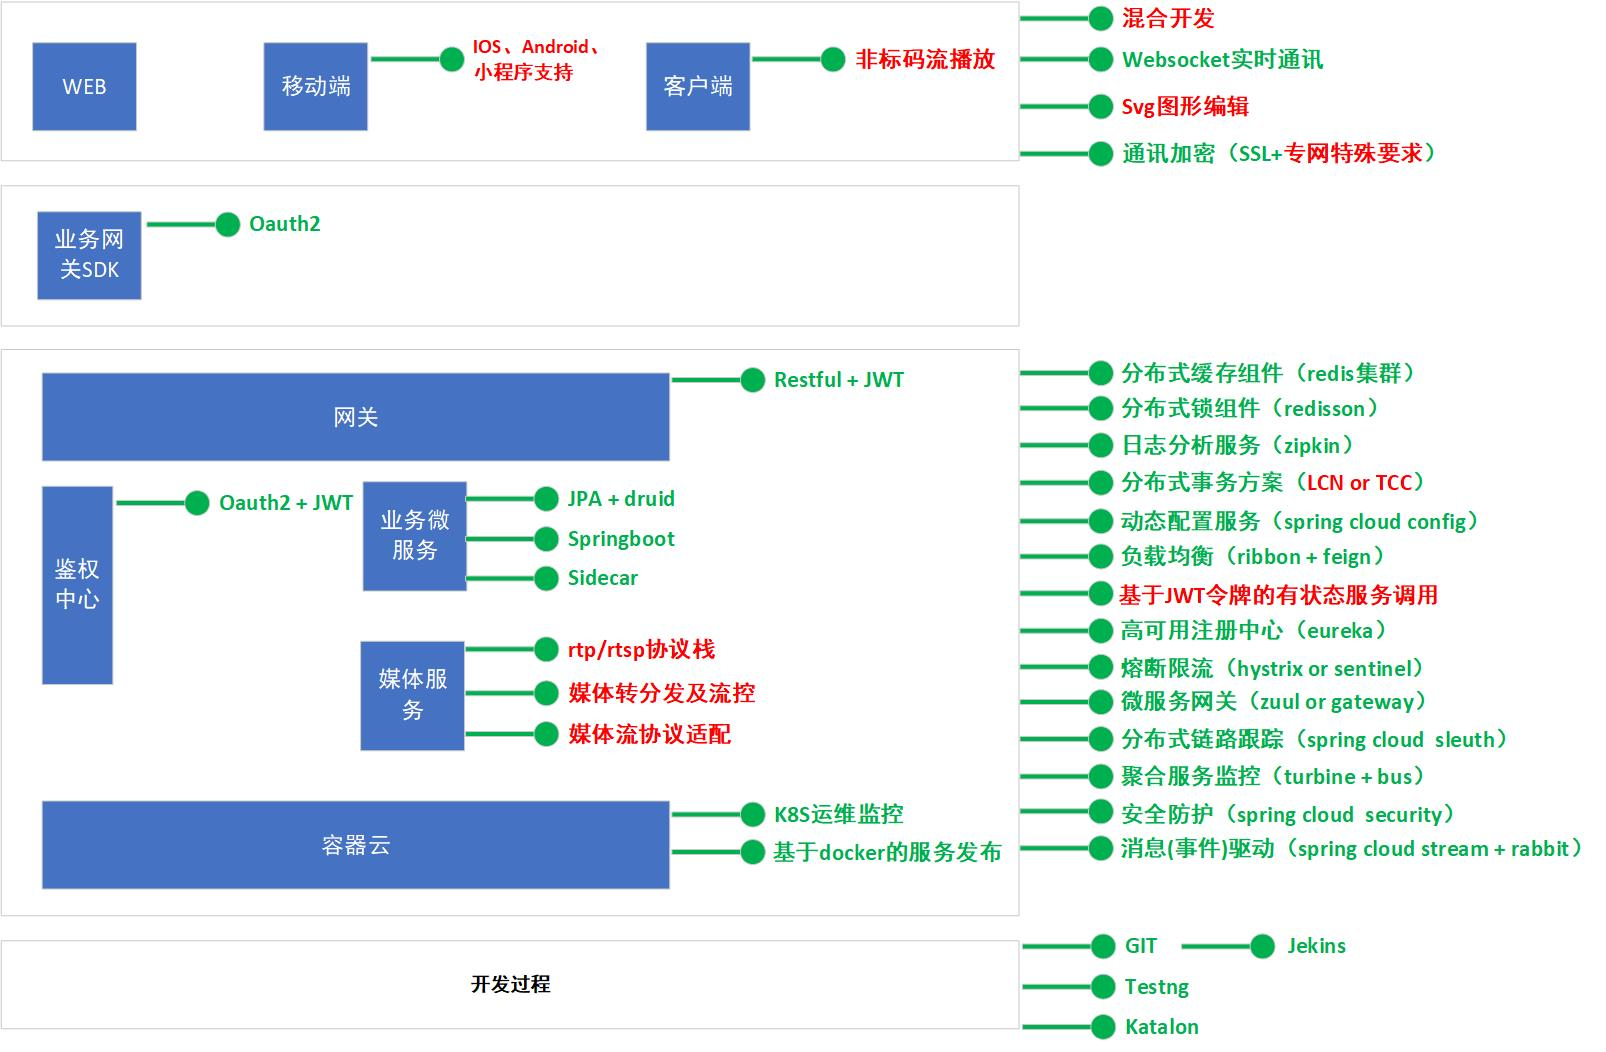
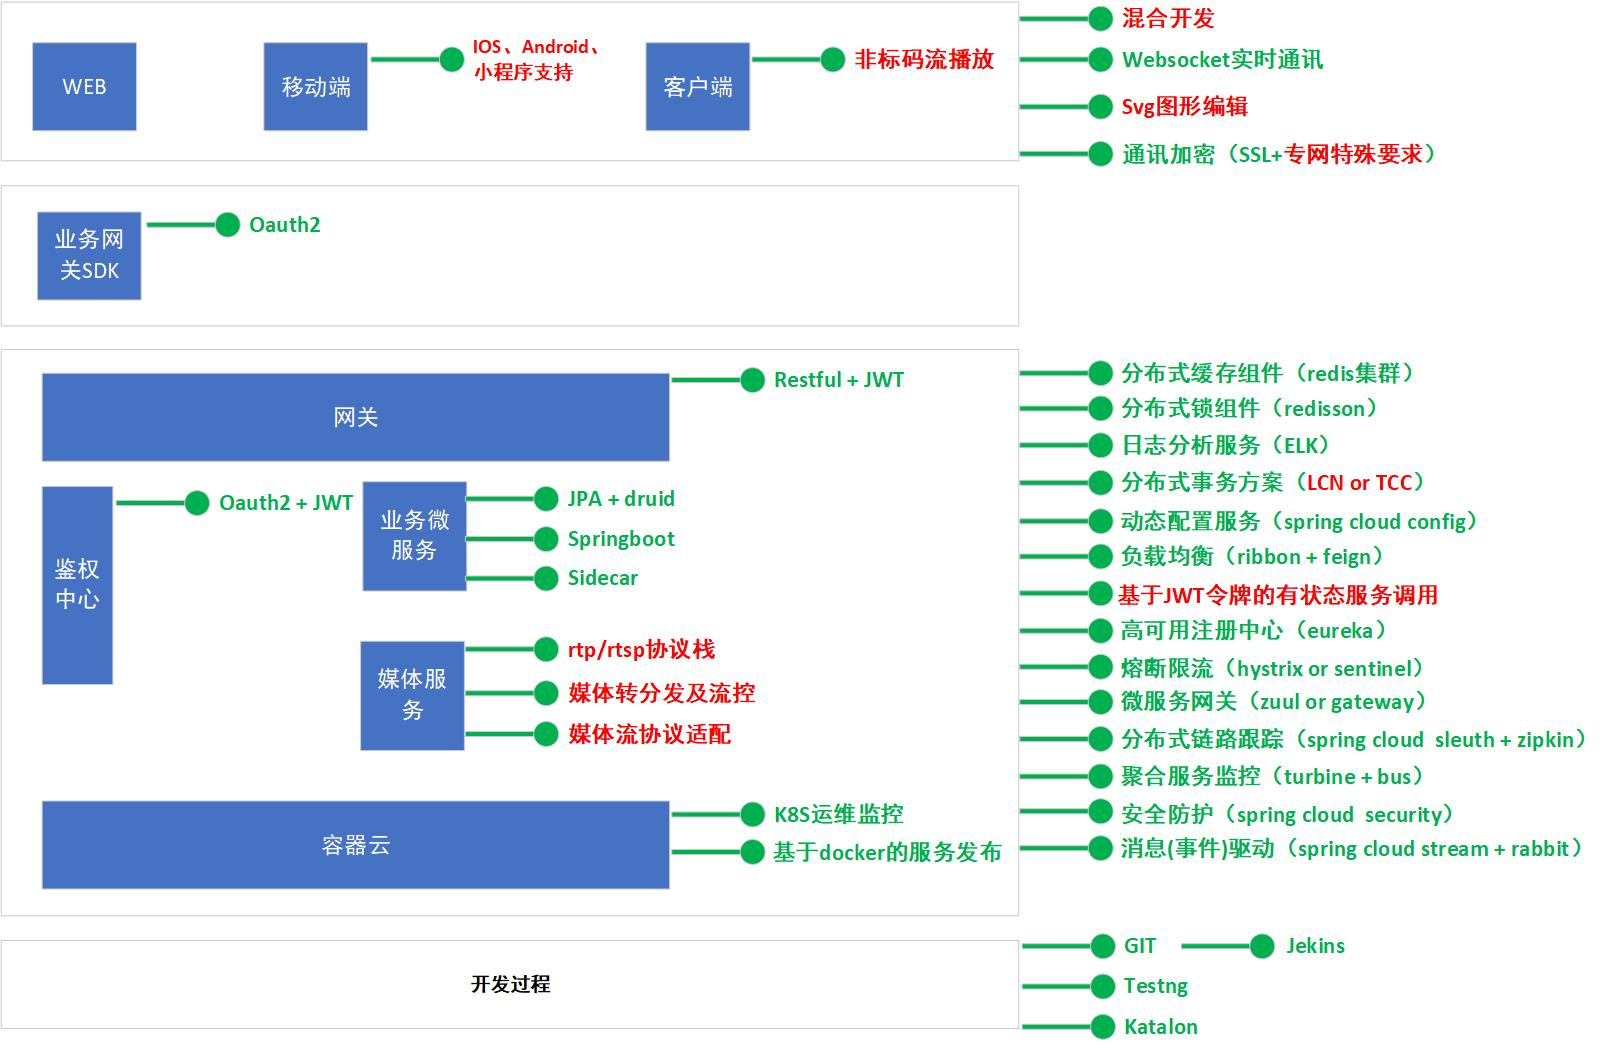
计划更新

diff --git a/README.md b/README.md
@@ -9,8 +9,9 @@
 -   [1. 目录](#目录)
 -   [2. 整体架构](#整体架构)
 -   [3. 版本计划](#版本计划)
-    -   [V.0.0.1](#001)
-    -   [V.0.0.2](#002)
+    -   [第一轮](#第一轮)
+        -   [V.0.0.1](#001周)
+        -   [V.0.0.2](#002周)
 
 ## 
 
@@ -22,20 +23,24 @@
 
 ## 版本计划
 
-### 001
--   Version: V.0.0.1
--   Time: 2019-03-18 to 2019-03-22
--   Features:
-    -   高可用注册中心，并基于docker发布
+### 第一轮
+
+#### 001周
+-   **Version: V.0.0.1**
+-   **Time: 2019-03-18 to 2019-03-22**
+-   **Features:**
     -   动态配置中心服务，并基于docker发布；基于springboot的动态配置使用demo
+    -   高可用注册中心，使用动态配置服务，并基于docker发布
     -   基于springboot的JPA+druid最佳实践
 
-### 002
--   Version: V.0.0.2
--   Time: 2019-03-25 to 2019-03-29
--   Features:
-    -   微服务监控及聚合服务实现（hystrix+turbine）
-    -   基于微服务的服务跟踪实现（sleuth）
-    -   日志分析服务，并基于docker发布
+#### 002周
+-   **Version: V.0.0.2**
+-   **Time: 2019-03-25 to 2019-03-29**
+-   **Features:**
+    -   微服务基于security的oauth2协议鉴权服务实现（security），使用动态配置服务
+    -   微服务监控及聚合服务实现（hystrix+turbine），使用动态配置服务
+    -   微服务熔断，及自定义策略（增强hystrix+feign），使用动态配置服务
+    -   基于微服务的服务跟踪实现（sleuth+zipkin），使用动态配置服务
+    -   日志分析服务，使用动态配置服务，并基于docker发布（ELK）使用动态配置服务
     
   [1]: https://raw.githubusercontent.com/asan3524/yiran/master/static/images/%E5%9F%BA%E7%A1%80%E6%8A%80%E6%9C%AF%E6%9E%B6%E6%9E%84.jpg
